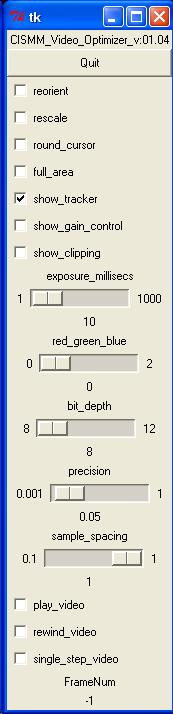
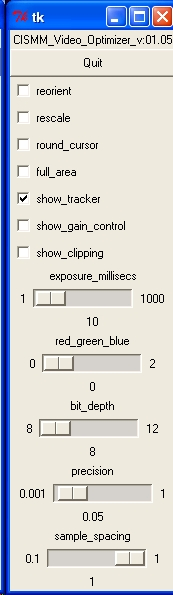
Changed installer and web page to describe new version.

diff --git a/video_spot_tracker/video_spot_tracker.html b/video_spot_tracker/video_spot_tracker.html
@@ -1,12 +1,12 @@
-<title>Video Spot Tracker v03.04</title>
+<title>Video Spot Tracker v03.05</title>
 
-<h1>Video Spot Tracker version 03.04</h1>
+<h1>Video Spot Tracker version 03.05</h1>
 
 <p>The <i><b>Video Spot Tracker</b></i> program is used to track the motion of one or more spots in a <a href="http://www.microsoft.com/directx">Microsoft DirectShow</a>-compatible video file, from a <a href="http://www.microsoft.com/directx">Microsoft DirectShow</a>-compatible camera, from a <a href="http://roperscientific.com">Roper Scientific</a> camera, from a <a href="http://diaginc.com">DiagInc</a> SPOT camera, or from a set of TIFF or BMP files (it can read other, compressed file formats but these are not included in the default set because these file formats distort images in ways that affect tracking accuracy). The program currently runs only on Windows, but it uses the portable openGL library for rendering, the portable Tcl/Tk for user interface control, and the portable ImageMagick package for reading images.</p>
 
 <h2>Running the program</h2>
 
-<p>The program is run by dragging a video file or image file onto the desktop icon that was created when the program was installed. To select a stack of image files that are numbered consecutively, drag any one of the files onto the icon.  It can also be run by selecting one of the camera-specific shortcuts from <i><b>Start Menu/All Programs/NSRG/Video Spot Tracker v03.04</b></i>. If you run the program directly by double-clicking on the icon, it will ask for a video or image file (AVI, TIF, or BMP) that it should open.</p>
+<p>The program is run by dragging a video file or image file onto the desktop icon that was created when the program was installed. To select a stack of image files that are numbered consecutively, drag any one of the files onto the icon.  It can also be run by selecting one of the camera-specific shortcuts from <i><b>Start Menu/All Programs/NSRG/Video Spot Tracker v03.05</b></i>. If you run the program directly by double-clicking on the icon, it will ask for a video or image file (AVI, TIF, or BMP) that it should open.</p>
 
 <p><b><i>NOTE:</i></b> With Windows XP service pack 2 and with other firewall software, running the program causes a dialog box to appear asking whether to block the program; the program needs to be unblocked only if the program is to be connected to a local or remote feedback system that relies on the tracking data. This happens when the program opens the Internet port assigned to it (3883) by the Internet Domain Naming Authority to export the data through the standard VRPN protocol (<a href="http://www.vrpn.org">www.vrpn.org</a>).</p> 
 
@@ -38,9 +38,9 @@
 
 <h3>Selecting the type of tracker</h3>
 
-<p><img src="kernel.jpg" width="609" height="117"></p>
+<p><img src="kernel.jpg" width="688" height="117"></p>
 
-<p>There are three types of tracking kernels available in version 3.04: disc, 
+<p>There are three types of tracking kernels available in version 3.05: disc, 
   cone, and symmetric. Their properties are controlled using interface widgets 
   in the <cite>kernel</cite> control panel.</p>
 
@@ -52,8 +52,18 @@
 
 <p>If the bead profile is changing over time, or if it does not fit well into one of the above categories, then the <cite><strong>symmetric</strong></cite> tracker should be chosen. This tracker operates by locating the minimum variance in concentric rings around the bead center. It sums the variance in circles of radius 1, 2, 3, ... up to the radius setting and divides each circle's radius by its circumference to provide even weights for each ring. The radius should be set to be at least slighly larger than the bead that is to be tracked; setting it larger will not harm tracking except to make the program run more slowly.  The setting on the <cite>dark_spot</cite> check box has no effect when symmetric tracker is chosen.</p> 
 
-<p><img src="rod3.jpg" width="152" height="164" align="right">A fourth, composite kernel is the <cite><strong>rod3</strong></cite> kernel. This is actually a grouping of three subkernels, each of which is one of the above types. These three kernels lie along the same line and move as a unit; they seek to track bars in the image. When this kernel box is selected, a new control panel will appear. This control panel is shown to the right, and it enables control over the length (in pixels) and orientation (in degrees) of the bar trackers. As with the radius and position controls described above, these controls change to display and control the values of the active tracker. The most successful bars may be made of cone kernels and be slightly less than the actual length of the bar on the screen. The symmetric kernel is probably the least useful.  Note that if the bars flex, this tracker may not work very well.</p>
-
+<p><img src="rod3.jpg" width="152" height="164" align="right">A fourth, composite 
+  kernel is the <cite><strong>rod3</strong></cite> kernel. This is actually a 
+  grouping of three subkernels, each of which is one of the above types. These 
+  three kernels lie along the same line and move as a unit; they seek to track 
+  bars in the image. When this kernel box is selected, a new control panel will 
+  appear. This control panel is shown to the right, and it enables control over 
+  the length (in pixels) and orientation (in degrees) of the bar trackers. As 
+  with the radius and position controls described above, these controls change 
+  to display and control the values of the active tracker. The most successful 
+  bars may be made of cone kernels and be slightly less than the actual length 
+  of the bar on the screen. The symmetric kernel is probably the least useful. 
+  Note that if the bars flex, this tracker may not work very well.</p>
 <h3>Enabling the trackers to follow jumps in bead position</h3>
 
 
@@ -63,7 +73,17 @@
 
 <h3>Activating the trackers</h3>
 
-<p>Once you have selected the type of tracker to use, and have selected spots to track, check the <cite>optimize</cite> checkbox. When you do this, the trackers should all move themselves to the centers of the spots they were started on.  You can continue to add trackers using the right mouse button after you have checked the optimize button; they will try to follow the center of the spot even as you adjust their radius.</p>
+<p>Once you have selected the type of tracker to use, and have selected spots 
+  to track, check the <cite>optimize</cite> checkbox. When you do this, the trackers 
+  should all move themselves to the centers of the spots they were started on. 
+  You can continue to add trackers using the right mouse button after you have 
+  checked the optimize button; they will try to follow the center of the spot 
+  even as you adjust their radius.</p>
+<p>If you have saved a radially-averaged spread function for the spots you are 
+  tracking (using the <b><i>CISMM Video Optimizer</i></b> program), you can use 
+  it to estimate Z values for the spots by clicking the <i>optimize_z</i> button 
+  and then selecting the spread function's TIF file in the dialog box that appears. 
+  The Z location will now be updated based on the spread-function stack.</p>
 
 <h3>Faster display update</h3>
 
@@ -88,7 +108,7 @@
 
 <p>The motion of the trackers over time is stored into two log files. The first is a <b><i>Comma-Separated Values</i></b> format with the extension .csv. This text format can be viewed in a text editor or loaded by several spreadsheet and analysis programs. The reports are stored in the file in in frame order, with multiple tracker entries interleaved for each frame. If you want to view the individual traces, you should use the <i>Excel</i> data sorting tool to sort the list by the <i>Spot ID</i> column.</p>
 
-<p>The second log file is in the <b><i>Virtual-Reality Peripheral Network</i></b> (<a href="http://www.vrpn.org">VRPN</a>) format. This format can be converted into a Matlab data file using the <b><i>vrpnLogToMatlab</i></b> program that should have been installed at the same time the <i><b>Video Spot Tracker</b></i> program was. You convert the &quot;.vrpn&quot; file into a Matlab file by dragging it onto a shortcut that points to the program (or by dragging it onto the program itself). The vrpnLogToMatlab program will have been installed in the directory: <b><i>C:\Program Files\NSRG\Video Spot Tracker v03.04\VrpnLogToMatlib</i></b> and it will also be located on the desktop.</p>
+<p>The second log file is in the <b><i>Virtual-Reality Peripheral Network</i></b> (<a href="http://www.vrpn.org">VRPN</a>) format. This format can be converted into a Matlab data file using the <b><i>vrpnLogToMatlab</i></b> program that should have been installed at the same time the <i><b>Video Spot Tracker</b></i> program was. You convert the &quot;.vrpn&quot; file into a Matlab file by dragging it onto a shortcut that points to the program (or by dragging it onto the program itself). The vrpnLogToMatlab program will have been installed in the directory: <b><i>C:\Program Files\NSRG\Video Spot Tracker v03.05\VrpnLogToMatlib</i></b> and it will also be located on the desktop.</p>
 
 <p><strong>Data description:</strong> Positions and radii are reported in units of pixels, with the origin at the upper-right corner of the screen. +X is towards the right on the displayed window and +Y is towards the bottom.</p>
 
@@ -120,6 +140,12 @@
 
 <h2>Version Information</h2>
 
+<h3>Version 3.05:</h3>
+<ul>
+  <li>3D bead tracking based on averaged spread functions created using the <b><i>CISMM 
+    Video Optimizer</i></b> tool. This lets the depth of each bead be estimated 
+    each frame.</li>
+</ul>
 <h3>Version 3.04:</h3>
 <ul>
   <li>The &quot;follow jumps&quot; code in this version is much faster than in 

diff --git a/cismm_video_optimizer/cismm_video_optimizer.html b/cismm_video_optimizer/cismm_video_optimizer.html
@@ -1,6 +1,6 @@
-<title>CISMM Video Optimizer v01.04</title>
+<title>CISMM Video Optimizer v01.05</title>
 
-<h1>CISMM Video Optimizer v01.04</h1>
+<h1>CISMM Video Optimizer v01.05</h1>
 
 <p>The <dfn>CISMM Video Optimizer</dfn> program is used to optimize video frames from a <a href="http://www.microsoft.com/directx">Microsoft DirectShow</a>-compatible video file, from a <a href="http://www.microsoft.com/directx">Microsoft DirectShow</a>-compatible camera, from a <a href="http://roperscientific.com">Roper Scientific</a> camera, from a <a href="http://diaginc.com">DiagInc</a> SPOT camera, or from a set of TIFF or BMP files (it can read other, compressed file formats but these are not included in the default set because these file formats distort images in ways that affect tracking accuracy). The program currently runs only on Windows, but it uses the portable openGL library for rendering, the portable Tcl/Tk for user interface control, and the portable ImageMagick package for reading images.</p>
 
@@ -10,9 +10,9 @@
 
 <h2>Running the program</h2>
 
-<p>The program is run by dragging a video file or image file onto the desktop icon that was created when the program was installed. To select a stack of image files that are numbered consecutively, drag any one of the files onto the icon.  It can also be run by selecting one of the camera-specific shortcuts from <i><b>Start Menu/All Programs/NSRG/CISMM Video Optimizer v01.04</b></i>. If you run the program directly by double-clicking on the icon, it will ask for a video or image file (AVI, TIF, or BMP) that it should open.</p> 
+<p>The program is run by dragging a video file or image file onto the desktop icon that was created when the program was installed. To select a stack of image files that are numbered consecutively, drag any one of the files onto the icon.  It can also be run by selecting one of the camera-specific shortcuts from <i><b>Start Menu/All Programs/NSRG/CISMM Video Optimizer v01.05</b></i>. If you run the program directly by double-clicking on the icon, it will ask for a video or image file (AVI, TIF, or BMP) that it should open.</p> 
 
-<h2><img src="GUI.jpg" width="173" height="714" align="right">Using the program</h2>
+<h2><img src="GUI.jpg" width="173" height="595" align="right">Using the program</h2>
 
 <p>When the program is run and a file is selected, four windows will appear. The image window that appears on the lower right contains the first image within the video file or a continually-updating image from a live camera feed. The control panel named <b><i>tk</i></b> that appears on the left when the program is run (shown here to the right) contains a number of interaction widgets that control the operation of the program. The <b><i>kernel</i></b> control panel that appears above the image window (described later) controls the type of tracking kernel being used. The <b><i>log</i></b> control panel is described later.</p> 
 
@@ -90,7 +90,7 @@
 
 <p><img src="kernel.jpg" width="528" height="117"></p>
 
-<p>There are three types of tracking kernels available in version 1.04, disc, cone, and symmetric. Their properties are controlled using interface widgets in the <cite>kernel</cite> control panel.</p> 
+<p>There are three types of tracking kernels available in version 1.05, disc, cone, and symmetric. Their properties are controlled using interface widgets in the <cite>kernel</cite> control panel.</p> 
 
 <p>For tracking spots that are even in intensity, or which have uneven intensities within them but a defined circular edge, the <cite><strong>disc</strong></cite> kernel should be used. The radius should be set to match the radius of the spots you wish to track. The <cite><strong>interpolate</strong></cite> checkbox should be set for more accuracy and cleared for more speed.</p> 
 
@@ -114,9 +114,36 @@
 
 <h3>Saving the optimized video</h3>
 
-<p><img src="log.jpg" width="286" height="61" align="right">You can record the motion of the trackers by checking the <b><i>Logging</i></b> checkbox within the <b><i>log</i></b> control panel (shown to the right). This will bring up a dialog box that will let you select a filename. Once you have selected a file name, you check the <b><i>play_video</i></b> checkbox to begin going through the video file, or you can use the <b><i>single_step_video</i></b> repeatedly to step through a frame at a time. When you are finished with the section of tracking that you are interested in, uncheck the Logging checkbox to stop the logging. You can then go forward to another section, turn on logging, and save a different file sequence if you like. The files that are stored will have the format: <dfn>filename</dfn>.opt.<dfn>nnnn</dfn>.tif, where filename is the name selected above, and nnnn is replaced by the frame number from the video (starts at frame 0 and goes up by one for each single_step).</p> 
+<p><img src="log.jpg" width="399" height="61" align="right">You can record the 
+  motion of the trackers by checking the <b><i>Logging</i></b> checkbox within 
+  the <b><i>log</i></b> control panel (shown to the right). This will bring up 
+  a dialog box that will let you select a filename. Once you have selected a file 
+  name, you check the <b><i>play_video</i></b> checkbox to begin going through 
+  the video file, or you can use the <b><i>single_step_video</i></b> repeatedly 
+  to step through a frame at a time. When you are finished with the section of 
+  tracking that you are interested in, uncheck the Logging checkbox to stop the 
+  logging. You can then go forward to another section, turn on logging, and save 
+  a different file sequence if you like. The files that are stored will have the 
+  format: <dfn>filename</dfn>.opt.<dfn>nnnn</dfn>.tif, where filename is the name 
+  selected above, and nnnn is replaced by the frame number from the video (starts 
+  at frame 0 and goes up by one for each single_step).</p> 
 
-<p>Logging will not occur while the file is paused, or when the end of the video has been reached (the last frame is stored either when you quit the program or when you stop logging). This is done so that you can place the trackers back onto spots that have jumped too far between frames when single-stepping through the video and still get an accurate record of where the spots went. There will be one file per frame of video stepped through or played through. <b><i>Note</i></b>: Some video files have a 30 frame/second playback but have three copies of the same video frame to produce an overall update of 10 frames/second; this will produce repeated location reports for each of the identical frames.</p> <p>CISMM Video Optimizer saves 16-bit files by default. You can switch this to 8-bit files (which have less information but can be read by a wider variety of programs) by un-checking hte <cite>Log 16 bits</cite> checkbox.</p> 
+<p>Logging will not occur while the file is paused, or when the end of the video has been reached (the last frame is stored either when you quit the program or when you stop logging). This is done so that you can place the trackers back onto spots that have jumped too far between frames when single-stepping through the video and still get an accurate record of where the spots went. There will be one file per frame of video stepped through or played through. <b><i>Note</i></b>: Some video files have a 30 frame/second playback but have three copies of the same video frame to produce an overall update of 10 frames/second; this will produce repeated location reports for each of the identical frames.</p> 
+<p>CISMM Video Optimizer saves 16-bit files by default. You can switch this to 
+  8-bit files (which have less information but can be read by a wider variety 
+  of programs) by un-checking hte <cite>Log 16 bits</cite> checkbox.</p>
+<p><b>Logging a spread function:</b> It is possible to log the &quot;spread function&quot; 
+  of points, beads, or other objects in the video. This is done by checking the 
+  <b><i>Log Point-spread</i></b> box before turning on logging. If selected, the 
+  program will acquire data centered on the first tracker (number zero), whose 
+  radius is the same as the tracker radius. The spread function file is a radial 
+  average around the center (providing one line of the image for each video frame). 
+  The file will have the same name base name as the standard TIFF files, but the 
+  suffix &quot;.psf.tif&quot; and it will contain one line for each frame of the 
+  video that is optimized, with the first line at bottom of the image and the 
+  last line at the top. It can be used by the <i>Video Spot Tracker</i> program 
+  to estimate the Z location of beads or other radially-symmetric features in 
+  images.</p> 
 
 <h3>Controlling playback</h3> 
 
@@ -132,6 +159,11 @@
 
 <h2>Version Information</h2>
 
+<h3>Version 01.05</h3>
+<ul>
+  <li>Adds spread-function saving option.</li>
+</ul>
+<h3></h3>
 <h3>Version 01.04</h3>
 <ul>
   <li>Adds controls to adjust gain and offset by clipping away onwanted parts 
